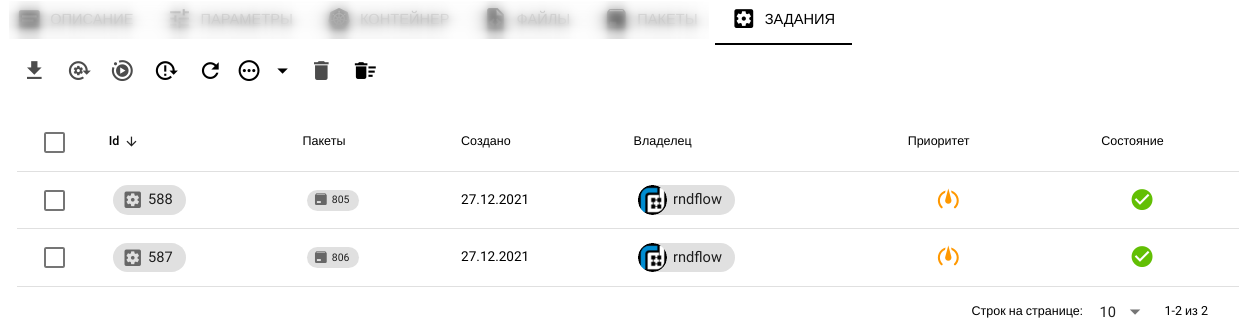
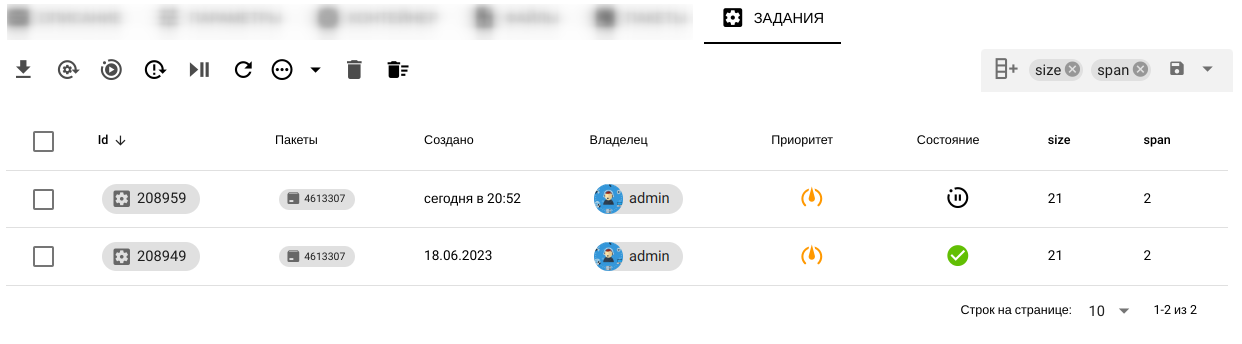
Add cron job info

diff --git a/src/.vuepress/config.js b/src/.vuepress/config.js
@@ -91,6 +91,7 @@ module.exports = {
             '/instructions/project',
             '/instructions/nodes',
             '/instructions/package',
+            '/instructions/job',
             '/instructions/link',
             '/instructions/role',
             '/instructions/user',

diff --git a/src/instructions/job.md b/src/instructions/job.md
@@ -1,0 +1,57 @@
+# Задания
+
+# Запуск задания по расписанию
+
+[Задания-инициаторы][1] позволяют запускать стандартные задания по заданному пользователем расписанию (согласно определенной периодичностью).
+
+
+- Открыть панель <span class="iconify-inline" data-icon="mdi:package"></span>[Пакеты][2] узла
+- Выбрать необходимый пакет, установив напротив него переключатель <span class='iconify-inline' data-icon='ph:number-circle-one-fill' style="color: red"></span> в значение <span class="iconify-inline" data-icon="mdi:checkbox-marked"></span>.
+- Нажать кнопку <span class="iconify-inline" data-icon="mdi:update"></span> <span class='iconify-inline' data-icon='ph:number-circle-two-fill' style="color: red"></span> на панели инструментов.
+
+  ![Scheduler package](/images/common/node_panel_packages_schedule.png)
+
+- Задать расписание (периодичность) запуска в поле <span class='iconify-inline' data-icon='ph:number-circle-one-fill' style="color: red"></span> в Cron-формате
+
+  Формат:
+
+    <pre>
+      <small>
+      * * * * *
+      | | | | |
+      | | | | +----- Дни недели (диапазон: 1-7)
+      | | | +------- Месяцы     (диапазон: 1-12)
+      | | +--------- Дни месяца (диапазон: 1-31)
+      | +----------- Часы       (диапазон: 0-23)
+      +------------- Минуты     (диапазон: 0-59)
+      </small>
+    </pre>
+
+  - Любое из пяти полей может содержать символ <b>*</b>  в качестве значения. Это означает полный диапазон возможных значений, например, каждая минута, каждый час и т.д.
+  - Любое из полей может содержать список значений, разделенных запятыми (наприимер, 1,3,7) или интервал (поддиапазон) значений, обозначаемый дефисом (например, 1-5).
+  - После звездочки <b>*</b> или интервала можно с помощью символа / указать шаг значений. Например, 0-23/2 может использоваться в поле "Часы" для указания того, что действие должно происходить каждые два часа, значение */4 в поле "Минуты" означает, что действие, должно происходить каждые четыре минуты, 1-30/3 - это то же, что и 1,4,7,10,13,16,19,22,25,28.
+  - В полях "Месяцы" и "Дни недели" можно вместо числовых значений использовать сокращенные до трех букв названия месяцев (Jan, Feb ... Dec) и дней недели (Mon, Tue ... Sun).
+
+  ![Packages schedulers start time](/images/common/node_panel_packages_schedule_time.png)
+
+  - В выпадающем списке примеров <span class='iconify-inline' data-icon='ph:number-circle-two-fill' style="color: red"></span> можно выбрать подходящий шаблон.
+  - С дополнительными примерами можно ознакомиться после перехода по сслыке <span class='iconify-inline' data-icon='ph:number-circle-three-fill' style="color: red"></span>. 
+
+- Нажать на кнопку "СОХРАНИТЬ"
+- Перейти в панель <span class="iconify-inline" data-icon="mdi:cog-box"></span>[Задания][3] узла, в котором должно появиться новое задание (может потребоваться обновить <span class="iconify-inline" data-icon="mdi:refresh"></span> список заданий). Наличие у задания статуса <span class="iconify-inline" data-icon="mdi:sleep" style="color: grey"></span> сообщает об успешном запуске "будильника". 
+
+- Согласно заданному расписанию (по мере срабатывания "будильника") в панеле <span class="iconify-inline" data-icon="mdi:package"></span>[Пакеты][2] узла будут появлять пакеты, созданные заданием-инициатором,  а в панеле <span class="iconify-inline" data-icon="mdi:cog-box"></span>[Задания][3] узла соответствующие им стандартные задания.
+
+::: tip <span class="iconify" data-icon="mdi:information" style="color: #42b983; font-size: 24px;"></span>
+Пакеты, созданные заданием-инициатором имеют метки вида: <i>Created by CronJob:<идентификатор задания></i>.
+
+Такие пакеты не сохраняют ссылки на родительское задание-инициатор!
+:::
+
+[1]: /docs/desc/job.md#типы
+[2]: /docs/desc/nodes.md#пакеты
+[3]: /docs/desc/nodes.md#задания
+
+
+
+

diff --git a/src/desc/job.md b/src/desc/job.md
@@ -4,6 +4,7 @@
 
 **Задание** (Job) - экземпляр выполнения узла с конкретными входными [пакетами][1] и [параметрами][2].
 
+
 Список заданий отображается в [панели узла][3] в вкладке <span class='iconify-inline' data-icon='mdi:cog-box'></span> [**Задания**][4].
 
 Общее количество выполняемых заданий в узле в текущем [слое данных][5] отображается в виде ярлыка <span class='iconify-inline' data-icon='ph:number-circle-one-fill' style="color: green"></span>:
@@ -14,9 +15,22 @@
 
 ![Node packages count](/images/common/node_compute_jobs_error.png)
 
+
+## Типы
+
+Типы заданий:
+- Стандартные задания - создаются непосредственно после нажатия пользователем кнопки <span class="iconify-inline" data-icon="mdi:cog-clockwise"/> [пакетной][9] и <span class="iconify-inline" data-icon="mdi:motion-play"/> [интерактивной][10] обработки пакета или автоматически после появления нового пакета в узле
+
+  > Такие задания непосредственно осуществляют обработку полученных на входе пакетов согласно [параметрам][2] узла с помощью [файлов][8] узла.
+
+- Задания-инициаторы - задания, инициирующие создание стандартных заданий согласно расписанию. Создаются непосредственно после нажатия пользователем кнопки <span class="iconify-inline" data-icon="mdi:update"/> обработки пакета [по расписанию][11] и указания соответствующего расписания запуска.
+
+  > Такие задания осуществляют периодическое создание в текущем узле копий инициировашего их пакета, что приводит к запуску стандартных заданий. Таким образом, осуществляется запуск стандартных заданий согласно заданному расписанию. Задания-инициаторы игнорируют [параметры][2] и [файлы][8] узла.
+
+
 ## Состояния
 
-Типы состояний заданий:
+Основные типы состояний заданий:
 
 - <span class="iconify-inline" data-icon="mdi:circle-outline" style="color: grey"></span> - Создано
 - <span class="iconify-inline" data-icon="mdi:progress-download" style="color: yellow"></span> - На [сервере расчетов][6]
@@ -35,6 +49,12 @@
 - <span class="iconify-inline" data-icon="mdi:alert-circle" style="color: red"></span> - Ошибка
 - <span class="iconify-inline" data-icon="mdi:emoticon-cry-outline" style="color: red"></span> - Отсутствует сердцебиение более 5 минут
 
+Дополнительные типы состояний для [заданий-инициаторов](#типы): 
+
+- <span class="iconify-inline" data-icon="mdi:sleep" style="color: grey"></span> - В ожидании запуска по расписанию
+- <span class="iconify-inline" data-icon="mdi:motion-pause-outline" style="color: grey"></span> - Пауза
+    > Пользователь поставил на паузу следущие запуски заданий (формирование инициирующих пакетов) по расписанию.
+
 [1]: /docs/desc/package.md
 [2]: /docs/desc/node_params.md
 [3]: /docs/desc/nodes.md#панели-узла
@@ -42,4 +62,7 @@
 [5]: ./project.md#слои-данных
 [6]: /docs/desc/executor.md
 [7]: /docs/desc/nodes.md#контеинер
-
+[8]: /docs/desc/nodes.md#фаилы
+[9]: /docs/instructions/package.md#обработка-пакета
+[10]: /docs/instructions/package.html#интерактивная-обработка-пакета
+[11]: /docs/instructions/job.html#запуск-задания-по-расписанию

diff --git a/src/desc/nodes.md b/src/desc/nodes.md
@@ -247,6 +247,7 @@ Cтруктура:
   - <span class="iconify-inline" data-icon="mdi:package-up"></span> Загрузка/создание пакета
   - <span class="iconify-inline" data-icon="mdi:download"></span> Скачать выделенные пакеты
   - <span class="iconify-inline" data-icon="mdi:cog-clockwise"></span> Обработать выделенные пакеты
+  - <span class="iconify-inline" data-icon="mdi:update"></span> Использовать выделенные пакеты для запуска [заданий-инициаторов][8] (запуск заданий по расписанию)
   - <span class="iconify-inline" data-icon="mdi:motion-play"></span> Обработать выделенные задания в интерактивном режиме
   - <span class="iconify-inline" data-icon="mdi:pin"></span>/<span class="iconify-inline" data-icon="mdi:pin-off" style="color: red"></span> Выбор/Отмена выбора установки мастер пакета слоя данных
   - <span class="iconify-inline" data-icon="mdi:content-copy"></span> Копировать выбранные пакеты между узлами и проектами
@@ -409,6 +410,7 @@ Cтруктура:
   - <span class="iconify-inline" data-icon="mdi:cog-clockwise"></span> Перезапустить выделенные задания
   - <span class="iconify-inline" data-icon="mdi:motion-play"></span> Перезапустить выделенные задания в интерактивном режиме
   - <span class="iconify-inline" data-icon="mdi:reload-alert"></span> Перезапустить ошибочные задания
+  - <span class="iconify-inline" data-icon="mdi:play-pause"></span> Поставить на паузу или активировать [задание-инициатор][8]
   - <span class="iconify-inline" data-icon="mdi:refresh"></span> Обновления списка
 
       Может содержать дополнительный ярлык:
@@ -513,3 +515,4 @@ Cтруктура:
 [5]: /docs/desc/job.md
 [6]: /docs/desc/job.md#состояния
 [7]: /docs/desc/docker.md
+[8]: /docs/desc/job.md#типы
